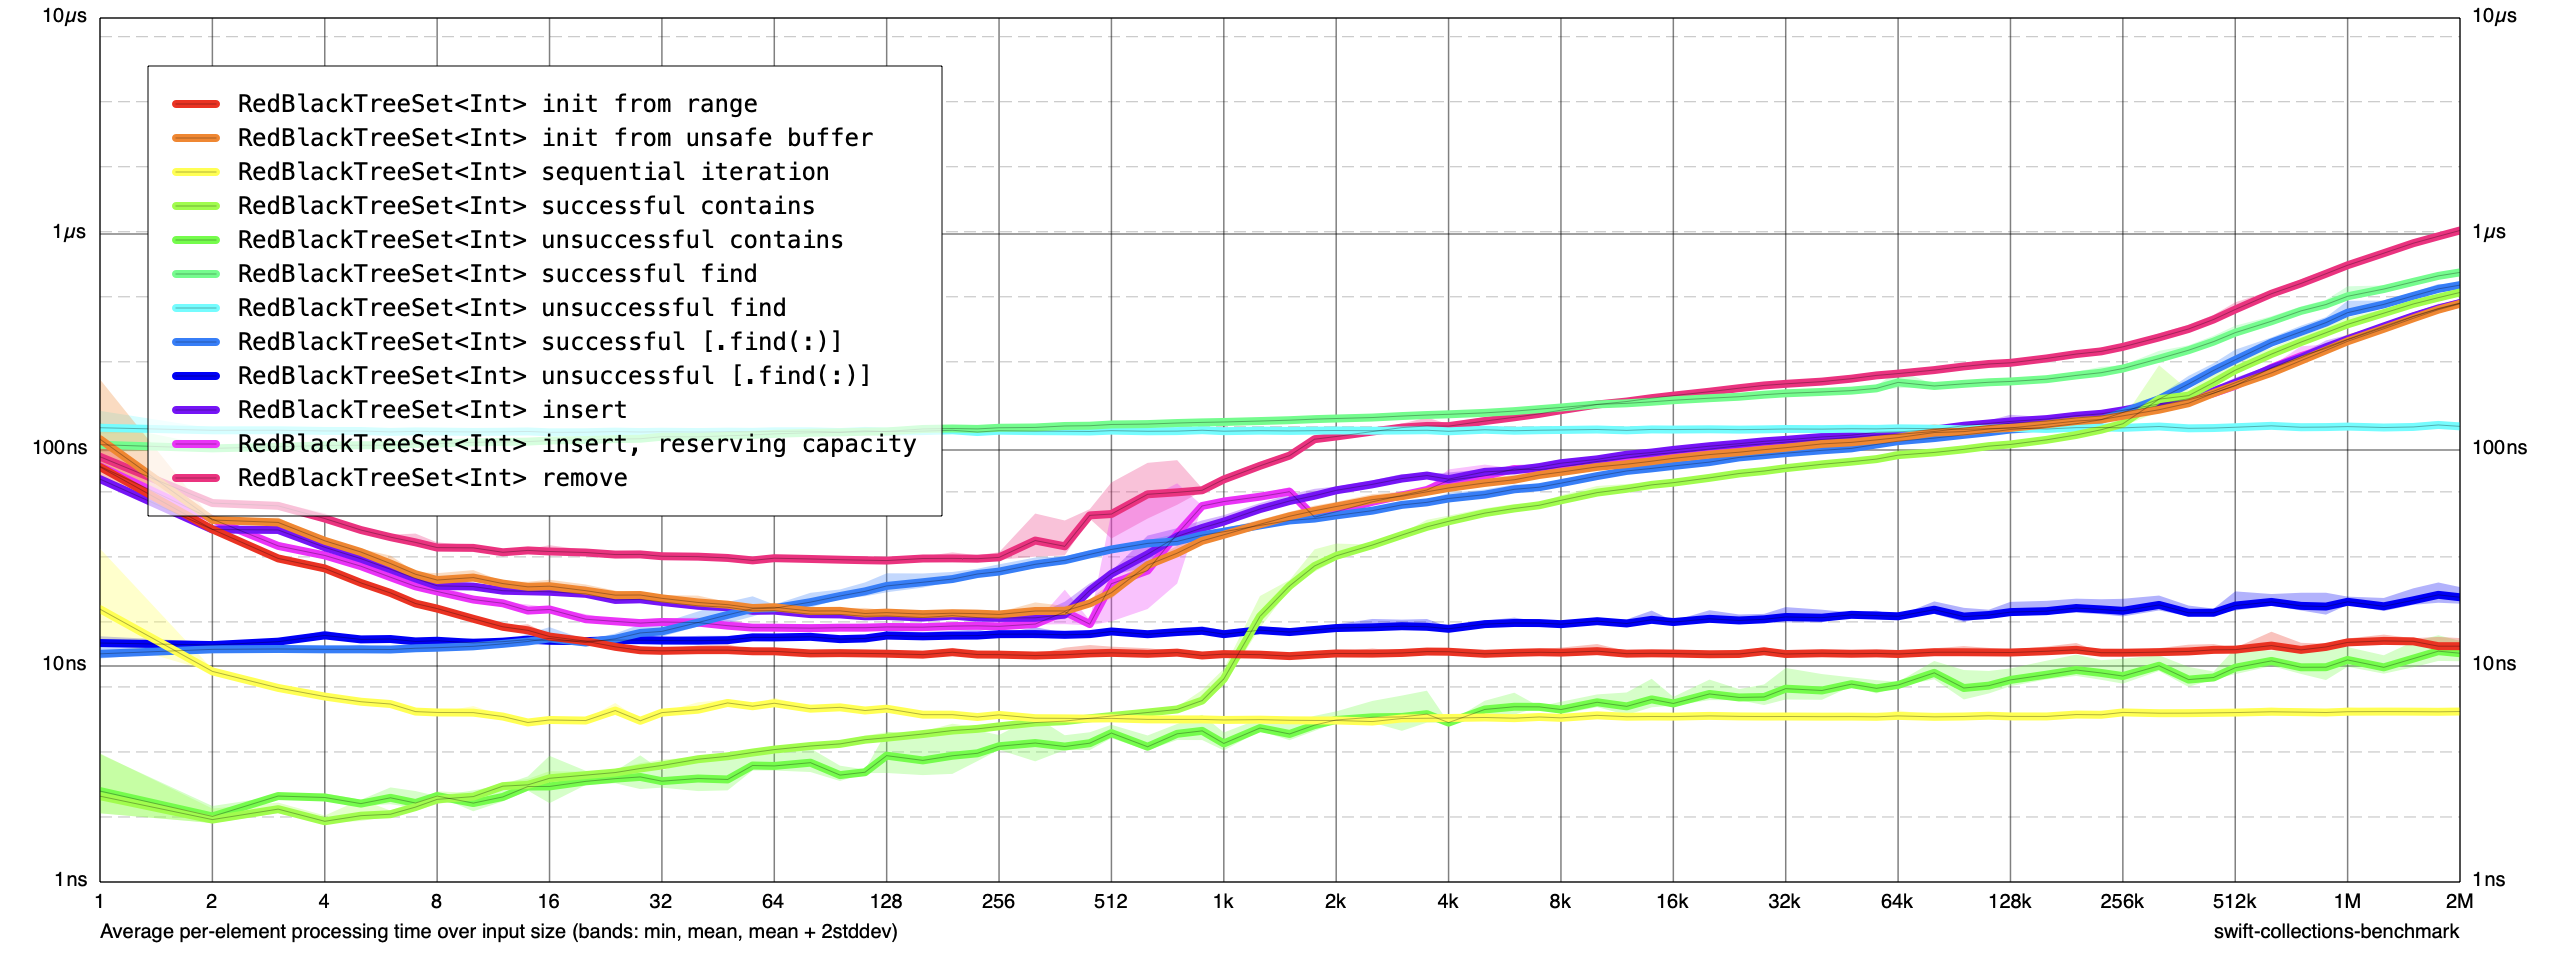
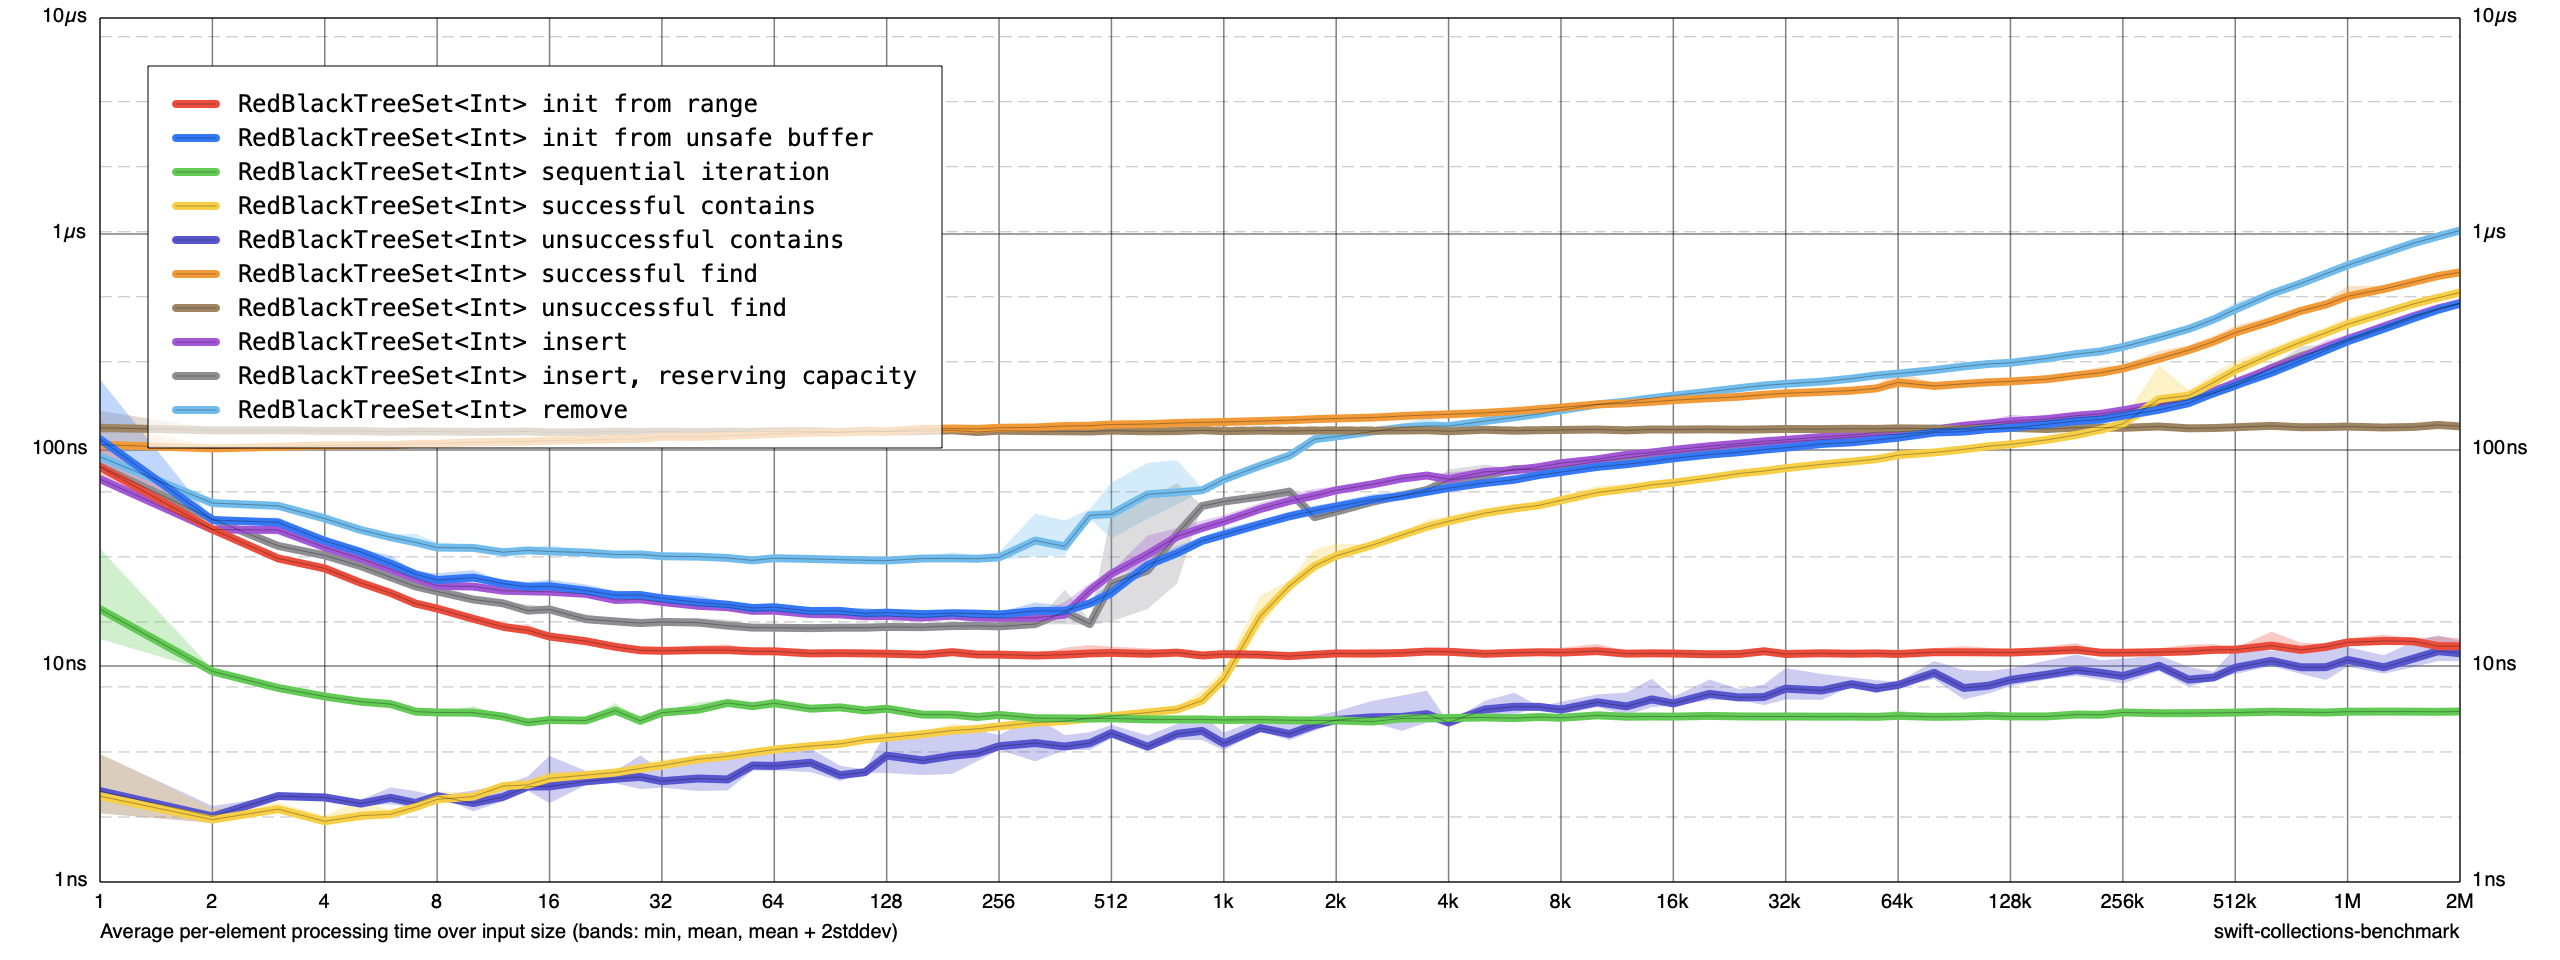
benchmark

Changed region(s): [[0.0312, 0.25, 0.9688, 0.875], [0.0625, 0.0938, 0.0938, 0.2188], [0.9375, 0.2188, 0.9688, 0.25]]

diff --git a/Benchmarks/Results.md b/Benchmarks/Results.md
@@ -2,91 +2,83 @@
 
 Click to expand individual items below.
 <details open>
-  <summary><strong>RedBlackTreeDictionary</strong></summary>
+  <summary><strong>RedBlackTreeSet Benchmarks</strong></summary>
   <ul>
   <details open>
     <summary><strong>Operations</strong></summary>
     <ul>
     <details>
       <summary>01: operations</summary>
-      <img src="RedBlackTreeDictionary/operations/01%20operations.png">
+      <img src="RedBlackTreeSet/operations/01%20operations.png">
     </details>
     <details>
-      <summary>02: iteration</summary>
-      <img src="RedBlackTreeDictionary/operations/02%20iteration.png">
+      <summary>02a: union with Self</summary>
+      <img src="RedBlackTreeSet/operations/02a%20union%20with%20Self.png">
     </details>
     <details>
-      <summary>03: lookups</summary>
-      <img src="RedBlackTreeDictionary/operations/03%20lookups.png">
+      <summary>02b: formUnion with Self</summary>
+      <img src="RedBlackTreeSet/operations/02b%20formUnion%20with%20Self.png">
     </details>
     <details>
-      <summary>04: subscript</summary>
-      <img src="RedBlackTreeDictionary/operations/04%20subscript.png">
+      <summary>03a: intersection with Self</summary>
+      <img src="RedBlackTreeSet/operations/03a%20intersection%20with%20Self.png">
     </details>
     <details>
-      <summary>05: defaulted subscript</summary>
-      <img src="RedBlackTreeDictionary/operations/05%20defaulted%20subscript.png">
+      <summary>03b: formIntersection with Self</summary>
+      <img src="RedBlackTreeSet/operations/03b%20formIntersection%20with%20Self.png">
     </details>
     <details>
-      <summary>06: mutations</summary>
-      <img src="RedBlackTreeDictionary/operations/06%20mutations.png">
+      <summary>04a: symmetricDifference with Self</summary>
+      <img src="RedBlackTreeSet/operations/04a%20symmetricDifference%20with%20Self.png">
     </details>
     <details>
-      <summary>07: removals</summary>
-      <img src="RedBlackTreeDictionary/operations/07%20removals.png">
+      <summary>04b: formSymmetricDifference with Self</summary>
+      <img src="RedBlackTreeSet/operations/04b%20formSymmetricDifference%20with%20Self.png">
+    </details>
+    <details>
+      <summary>05a: subtracting Self</summary>
+      <img src="RedBlackTreeSet/operations/05a%20subtracting%20Self.png">
+    </details>
+    <details>
+      <summary>05b: subtract Self</summary>
+      <img src="RedBlackTreeSet/operations/05b%20subtract%20Self.png">
     </details>
     </ul>
   </details>
   <details open>
-    <summary><strong>RedBlackTreeDictionary vs std::map</strong></summary>
+    <summary><strong>RedBlackTreeSet vs std::set</strong></summary>
     <ul>
     <details>
-      <summary>01: initializers</summary>
-      <img src="RedBlackTreeDictionary/versus%20STL%20map/01%20initializers.png">
+      <summary>01: init from integer range</summary>
+      <img src="RedBlackTreeSet/versus%20STL%20set/01%20init%20from%20integer%20range.png">
     </details>
     <details>
-      <summary>02: iteration</summary>
-      <img src="RedBlackTreeDictionary/versus%20STL%20map/02%20iteration.png">
+      <summary>02: init from buffer of integers</summary>
+      <img src="RedBlackTreeSet/versus%20STL%20set/02%20init%20from%20buffer%20of%20integers.png">
     </details>
     <details>
-      <summary>03: successful find index</summary>
-      <img src="RedBlackTreeDictionary/versus%20STL%20map/03%20successful%20find%20index.png">
+      <summary>03: sequential iteration</summary>
+      <img src="RedBlackTreeSet/versus%20STL%20set/03%20sequential%20iteration.png">
     </details>
     <details>
-      <summary>04: unsuccessful find index</summary>
-      <img src="RedBlackTreeDictionary/versus%20STL%20map/04%20unsuccessful%20find%20index.png">
+      <summary>04: successful lookups</summary>
+      <img src="RedBlackTreeSet/versus%20STL%20set/04%20successful%20lookups.png">
     </details>
     <details>
-      <summary>05: defaulted subscript, existing key</summary>
-      <img src="RedBlackTreeDictionary/versus%20STL%20map/05%20defaulted%20subscript,%20existing%20key.png">
+      <summary>05: unsuccessful lookups</summary>
+      <img src="RedBlackTreeSet/versus%20STL%20set/05%20unsuccessful%20lookups.png">
     </details>
     <details>
-      <summary>06: defaulted subscript, new key</summary>
-      <img src="RedBlackTreeDictionary/versus%20STL%20map/06%20defaulted%20subscript,%20new%20key.png">
+      <summary>06: random removals</summary>
+      <img src="RedBlackTreeSet/versus%20STL%20set/06%20random%20removals.png">
     </details>
     <details>
-      <summary>07: insert</summary>
-      <img src="RedBlackTreeDictionary/versus%20STL%20map/07%20insert.png">
+      <summary>07: successful contains</summary>
+      <img src="RedBlackTreeSet/versus%20STL%20set/07%20successful%20contains.png">
     </details>
     <details>
-      <summary>08: insert, reserving capacity</summary>
-      <img src="RedBlackTreeDictionary/versus%20STL%20map/08%20insert,%20reserving%20capacity.png">
-    </details>
-    <details>
-      <summary>09: removing existing elements</summary>
-      <img src="RedBlackTreeDictionary/versus%20STL%20map/09%20removing%20existing%20elements.png">
-    </details>
-    <details>
-      <summary>10: removing missing elements</summary>
-      <img src="RedBlackTreeDictionary/versus%20STL%20map/10%20removing%20missing%20elements.png">
-    </details>
-    <details>
-      <summary>11: successful contains</summary>
-      <img src="RedBlackTreeDictionary/versus%20STL%20map/11%20successful%20contains.png">
-    </details>
-    <details>
-      <summary>12: unsuccessful contains</summary>
-      <img src="RedBlackTreeDictionary/versus%20STL%20map/12%20unsuccessful%20contains.png">
+      <summary>08: unsuccessful contains</summary>
+      <img src="RedBlackTreeSet/versus%20STL%20set/08%20unsuccessful%20contains.png">
     </details>
     </ul>
   </details>
